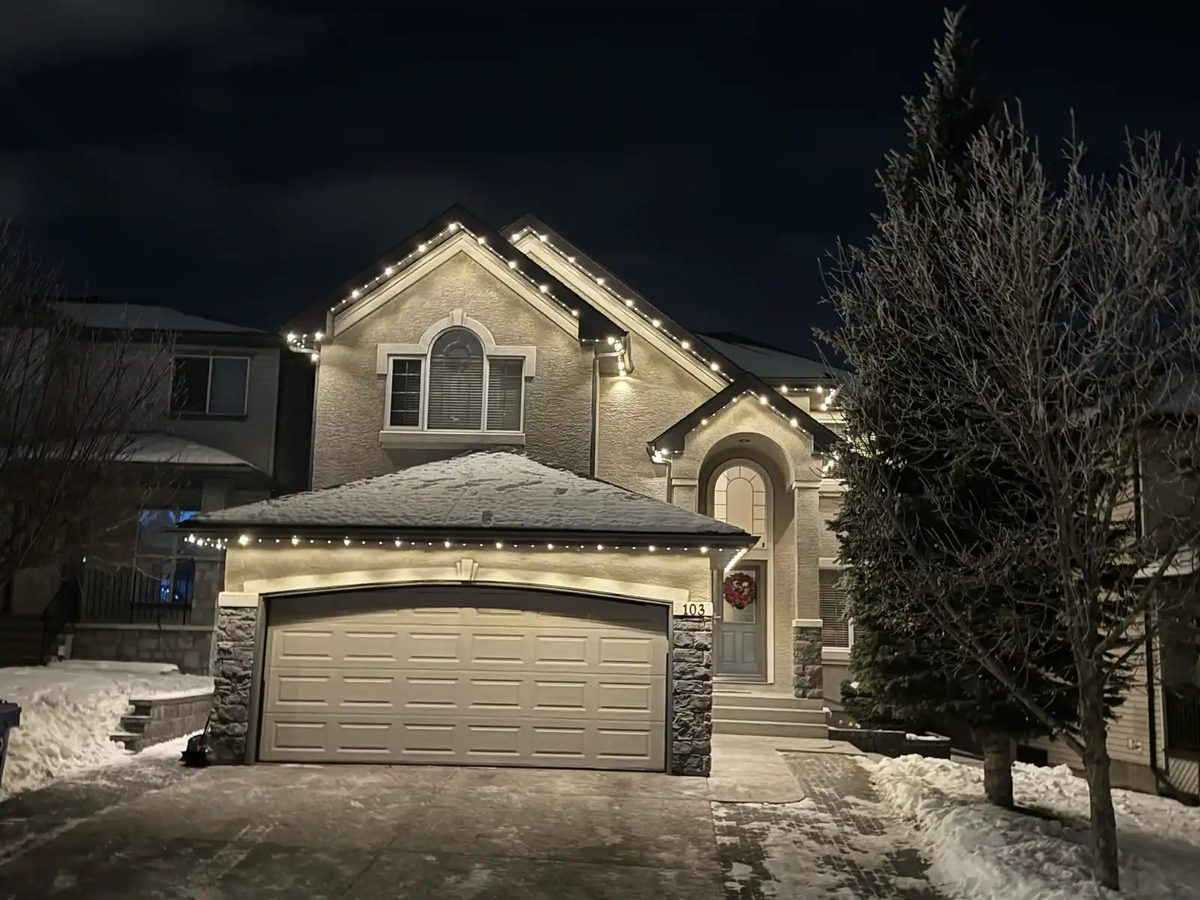
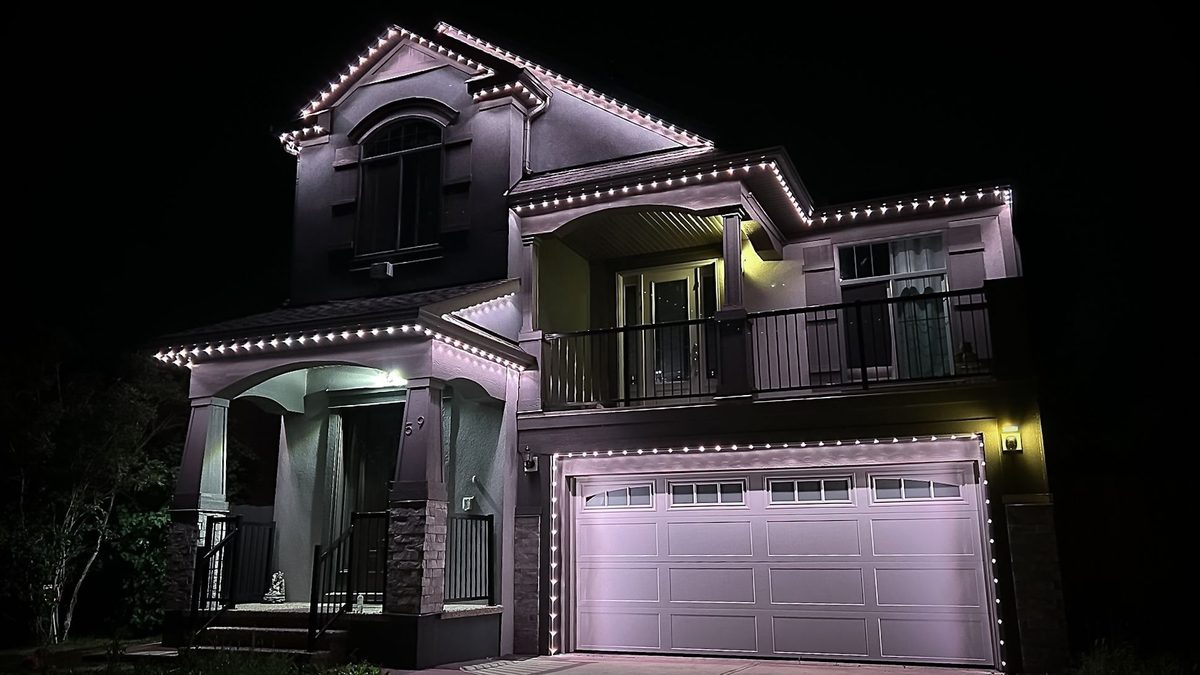
Update Empire Home Service gallery and hours
Swapped the two gallery photos for the 16:9 shots Franky sent (they fit
the gallery containers cleanly without being cropped), and set hours to
8 AM to 8 PM, 7 days a week.

diff --git a/content/businesses/empire-home-service.md b/content/businesses/empire-home-service.md
@@ -11,13 +11,13 @@ neighborhood: "Edmonton"
 phone: "(587) 409-0721"
 website: "https://empirehomeservice.ca"
 hours:
-  monday: "8:00 AM–6:00 PM"
-  tuesday: "8:00 AM–6:00 PM"
-  wednesday: "8:00 AM–6:00 PM"
-  thursday: "8:00 AM–6:00 PM"
-  friday: "8:00 AM–6:00 PM"
-  saturday: "9:00 AM–4:00 PM"
-  sunday: "Closed"
+  monday: "8:00 AM–8:00 PM"
+  tuesday: "8:00 AM–8:00 PM"
+  wednesday: "8:00 AM–8:00 PM"
+  thursday: "8:00 AM–8:00 PM"
+  friday: "8:00 AM–8:00 PM"
+  saturday: "8:00 AM–8:00 PM"
+  sunday: "8:00 AM–8:00 PM"
 photos:
   - "/photos/empire-home-service-g1.jpg"
   - "/photos/empire-home-service-g2.jpg"
